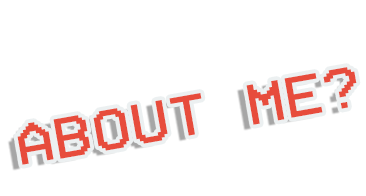
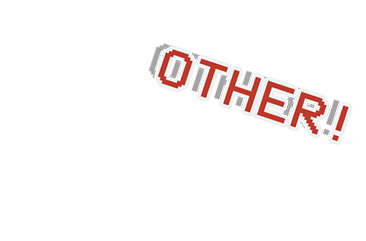
Minor Update

Changed region(s): [[0.3907, 0.1837, 0.9918, 0.6735], [0.0, 0.4592, 0.571, 0.8878]]

diff --git a/anime/index.html b/anime/index.html
@@ -25,7 +25,7 @@
                 <tr>
                   <td rowspan="3">
                     <a href="https://www.facebook.com/profile.php?id=100002670314683" target="_blank">
-                      <img class="fb" src="img/4.png" alt="ram">
+                      <img class="fb" src="img/0.png" alt="ram">
                     </a>
                   </td>
                   <td rowspan="3">
@@ -34,19 +34,19 @@
                     </a>
                   </td>
                   <td>
-                    <img id="about" class="about" src="img/7.png" alt="about">
+                    <img id="about" class="about" src="img/4.png" alt="about">
                   </td>
                 </tr>
                 <tr>
                   <td>
                     <a target="_blank" href="https://drive.google.com/drive/folders/1828MAOrTfA_-mzEti1zw4w0FJsMxMqQV">
-                      <img class="skin" src="img/9.png" alt="skin">
+                      <img class="skin" src="img/6.png" alt="skin">
                     </a>
                   </td>
                 </tr>
                 <tr>
                   <td>
-                    <img class="other" onclick="myFunction()" src="img/11.png" alt="other">
+                    <img class="other" onclick="myFunction()" src="img/8.png" alt="other">
                   </td>
                 </tr>
               </tbody>
@@ -77,7 +77,7 @@
       </div>
     </div>
     <script src="modal.js"></script>
-    <!-- TRAP.FM <audio autoplay="autoplay" src="http://stream.trap.fm:6004/;stream.mp3"></audio> -->
+    <!-- <audio autoplay="autoplay" src="http://stream.trap.fm:6004/;stream.mp3"></audio> -->
     <audio autoplay="autoplay" src="http://hyades.shoutca.st:8043/stream"></audio>
   </body>
 </html>

diff --git a/anime/style.css b/anime/style.css
@@ -11,20 +11,20 @@ html, body{
 .centerTable{
   margin: 0px auto;
 }
+.fb:hover{
+  background-image: url('img/1.png');
+}
 .yt:hover{
   background-image: url('img/3.png');
 }
-.fb:hover{
+.about:hover{
   background-image: url('img/5.png');
 }
-.about:hover{
-  background-image: url('img/8.png');
-}
 .skin:hover{
-  background-image: url('img/10.png');
+  background-image: url('img/7.png');
 }
 .other:hover{
-  background-image: url('img/12.png');
+  background-image: url('img/9.png');
 }
 .other, #about{
   cursor: pointer
